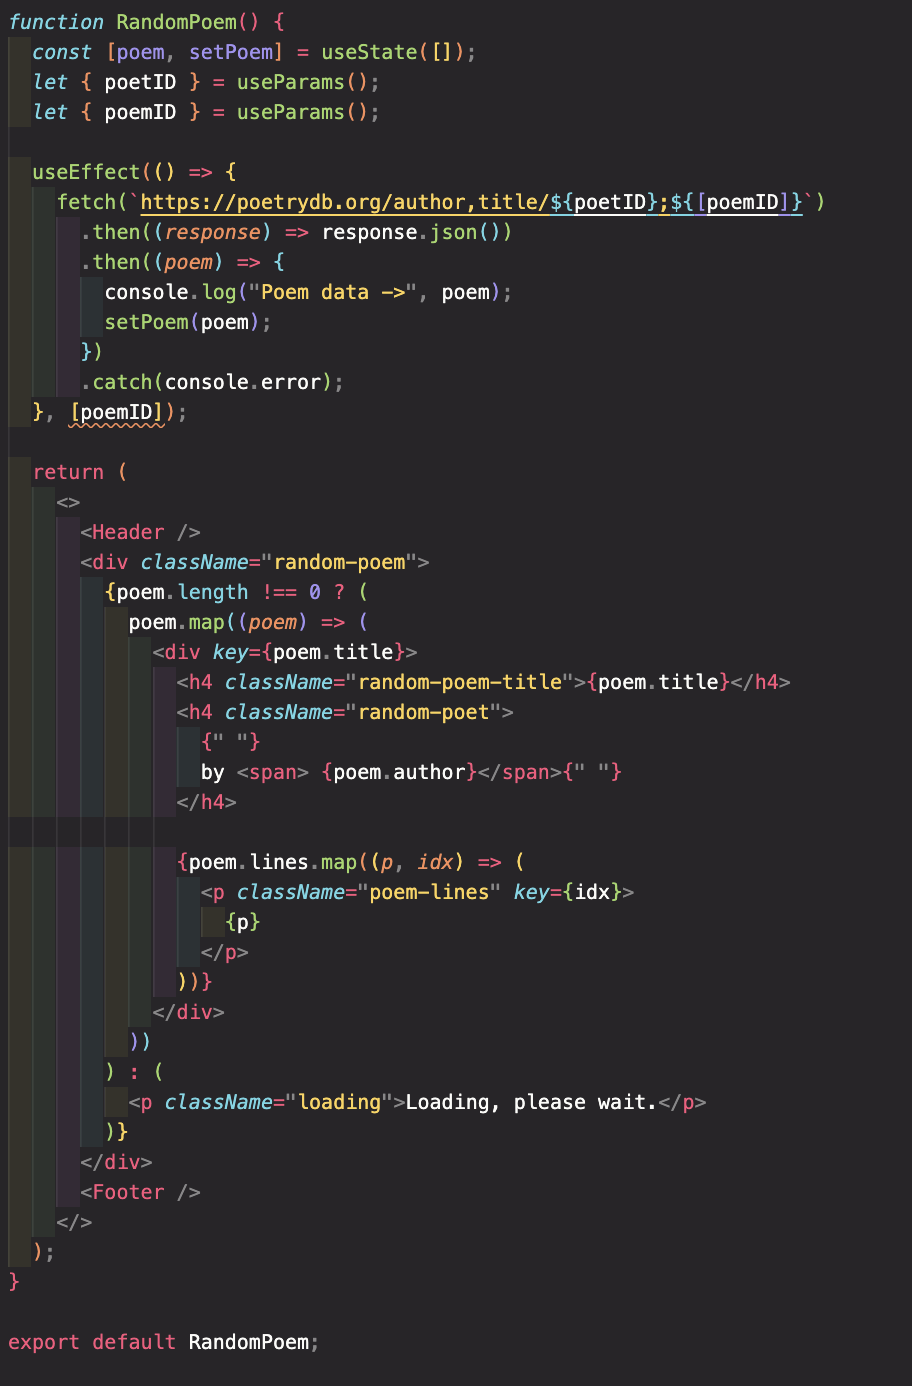
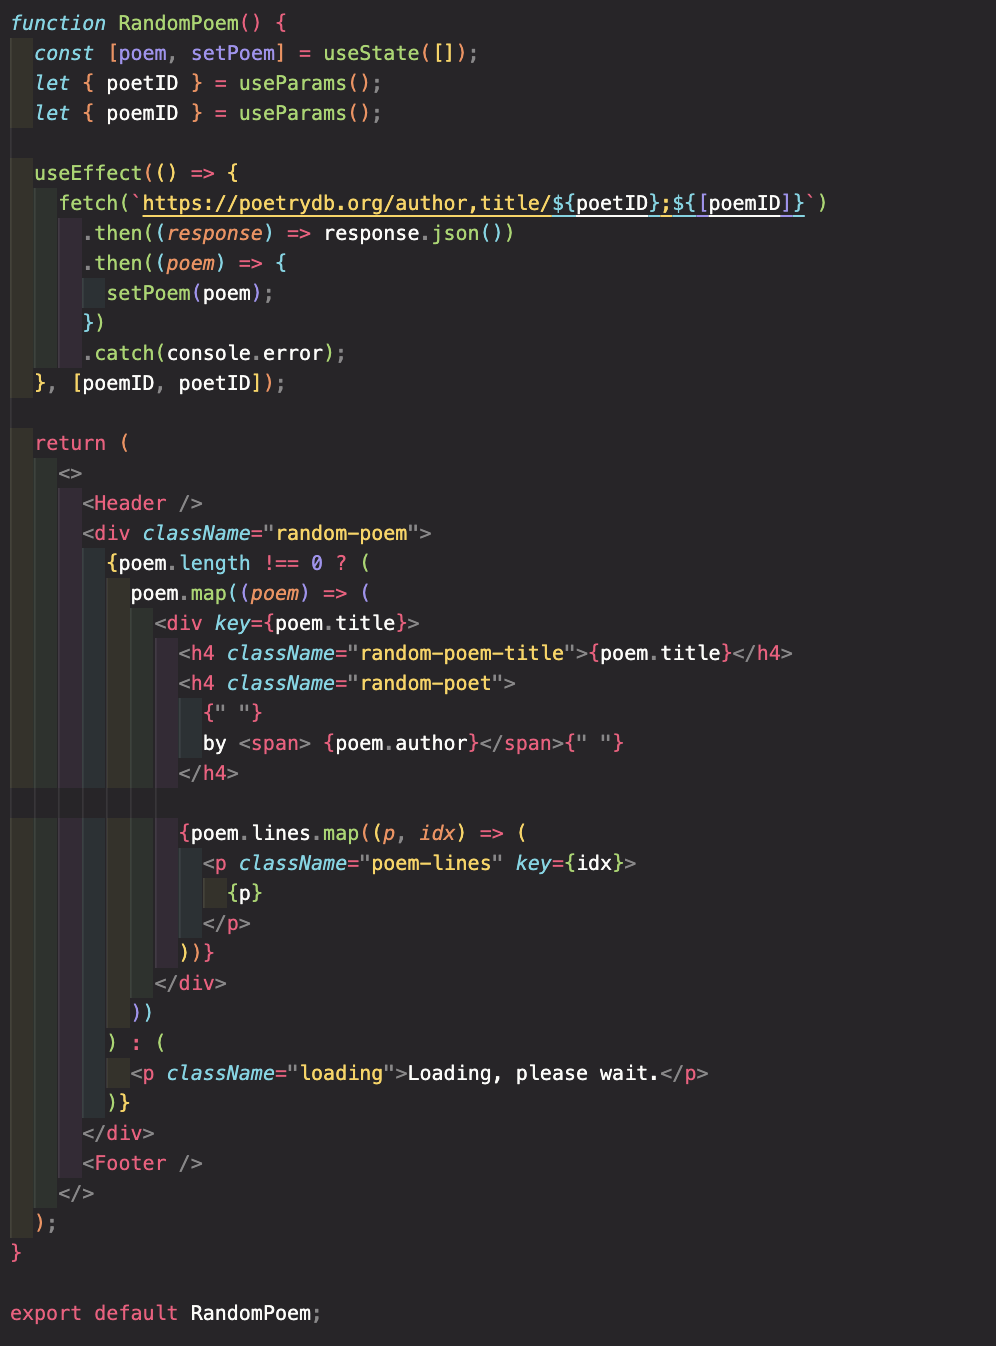
Readme updated

diff --git a/src/components/RandomPoem/RandomPoem.jsx b/src/components/RandomPoem/RandomPoem.jsx
@@ -13,11 +13,10 @@ function RandomPoem() {
     fetch(`https://poetrydb.org/author,title/${poetID};${[poemID]}`)
       .then((response) => response.json())
       .then((poem) => {
-        console.log("Poem data ->", poem);
         setPoem(poem);
       })
       .catch(console.error);
-  }, [poemID]);
+  }, [poemID, poetID]);
 
   return (
     <>

diff --git a/src/components/Homepage/Homepage.jsx b/src/components/Homepage/Homepage.jsx
@@ -1,4 +1,4 @@
-import React, { useState, useEffect } from "react";
+import React from "react";
 import "./Homepage.css";
 import Header from "../Header/Header";
 import { Link } from "react-router-dom";
